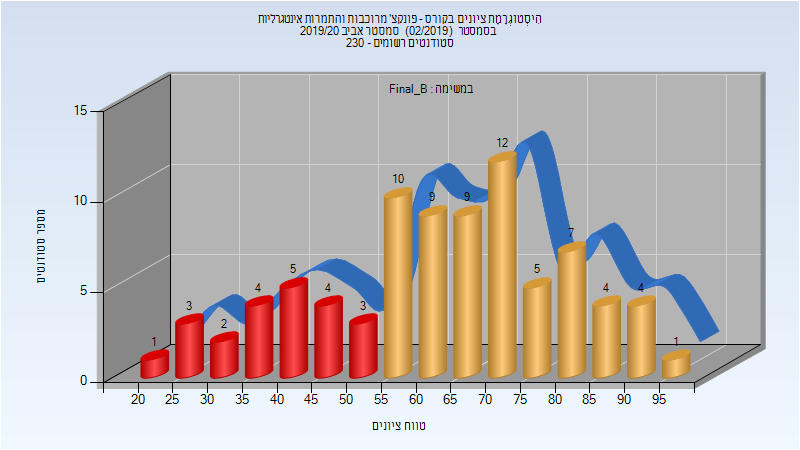
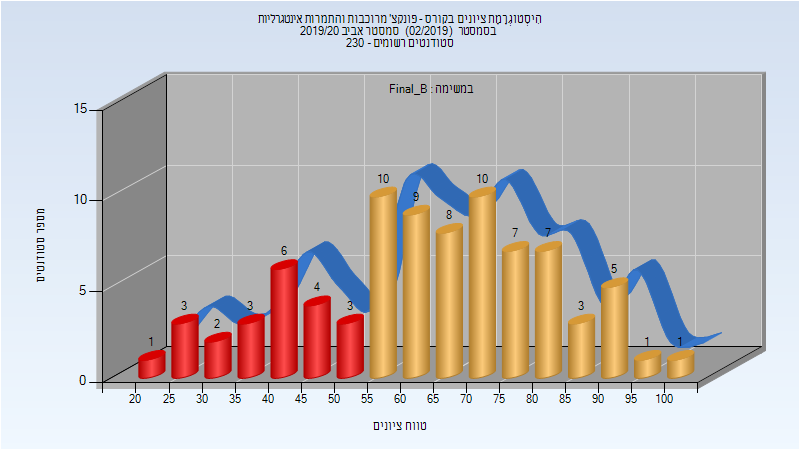
Deploy michael-maltsev/technion-histograms to github.com/michael-maltsev/technion-histograms.git:gh-pages

diff --git a/104221/index.html b/104221/index.html
@@ -2033,11 +2033,11 @@
 <tbody>
 <tr>
 <td>83</td>
-<td>43/40</td>
-<td>52</td>
+<td>44/39</td>
+<td>53</td>
 <td>3</td>
-<td>95</td>
-<td>53.47</td>
+<td>98</td>
+<td>54.229</td>
 <td>55</td>
 </tr>
 </tbody>
@@ -2062,8 +2062,8 @@
 <td>61/22</td>
 <td>73</td>
 <td>23</td>
-<td>99</td>
-<td>63.133</td>
+<td>100</td>
+<td>63.747</td>
 <td>63</td>
 </tr>
 </tbody>
@@ -2084,13 +2084,13 @@
 </thead>
 <tbody>
 <tr>
-<td>161</td>
-<td>136/25</td>
-<td>84</td>
-<td>29</td>
+<td>201</td>
+<td>177/24</td>
+<td>88</td>
+<td>23</td>
 <td>100</td>
-<td>71.609</td>
-<td>75</td>
+<td>72.338</td>
+<td>76</td>
 </tr>
 </tbody>
 </table>

diff --git a/104221/README.md b/104221/README.md
@@ -639,7 +639,7 @@
 
 | סטודנטים | עברו/נכשלו | אחוז עוברים | ציון מינימלי | ציון מקסימלי | ממוצע | חציון |
 | ---- | ---- | ---- | ---- | ---- | ---- | ---- |
-| 83 | 43/40 | 52 | 3 | 95 | 53.47 | 55 |
+| 83 | 44/39 | 53 | 3 | 98 | 54.229 | 55 |
 
 ### סופי מועד ב'
 
@@ -647,7 +647,7 @@
 
 | סטודנטים | עברו/נכשלו | אחוז עוברים | ציון מינימלי | ציון מקסימלי | ממוצע | חציון |
 | ---- | ---- | ---- | ---- | ---- | ---- | ---- |
-| 83 | 61/22 | 73 | 23 | 99 | 63.133 | 63 |
+| 83 | 61/22 | 73 | 23 | 100 | 63.747 | 63 |
 
 ### סופי
 
@@ -655,5 +655,5 @@
 
 | סטודנטים | עברו/נכשלו | אחוז עוברים | ציון מינימלי | ציון מקסימלי | ממוצע | חציון |
 | ---- | ---- | ---- | ---- | ---- | ---- | ---- |
-| 161 | 136/25 | 84 | 29 | 100 | 71.609 | 75 |
+| 201 | 177/24 | 88 | 23 | 100 | 72.338 | 76 |
 
